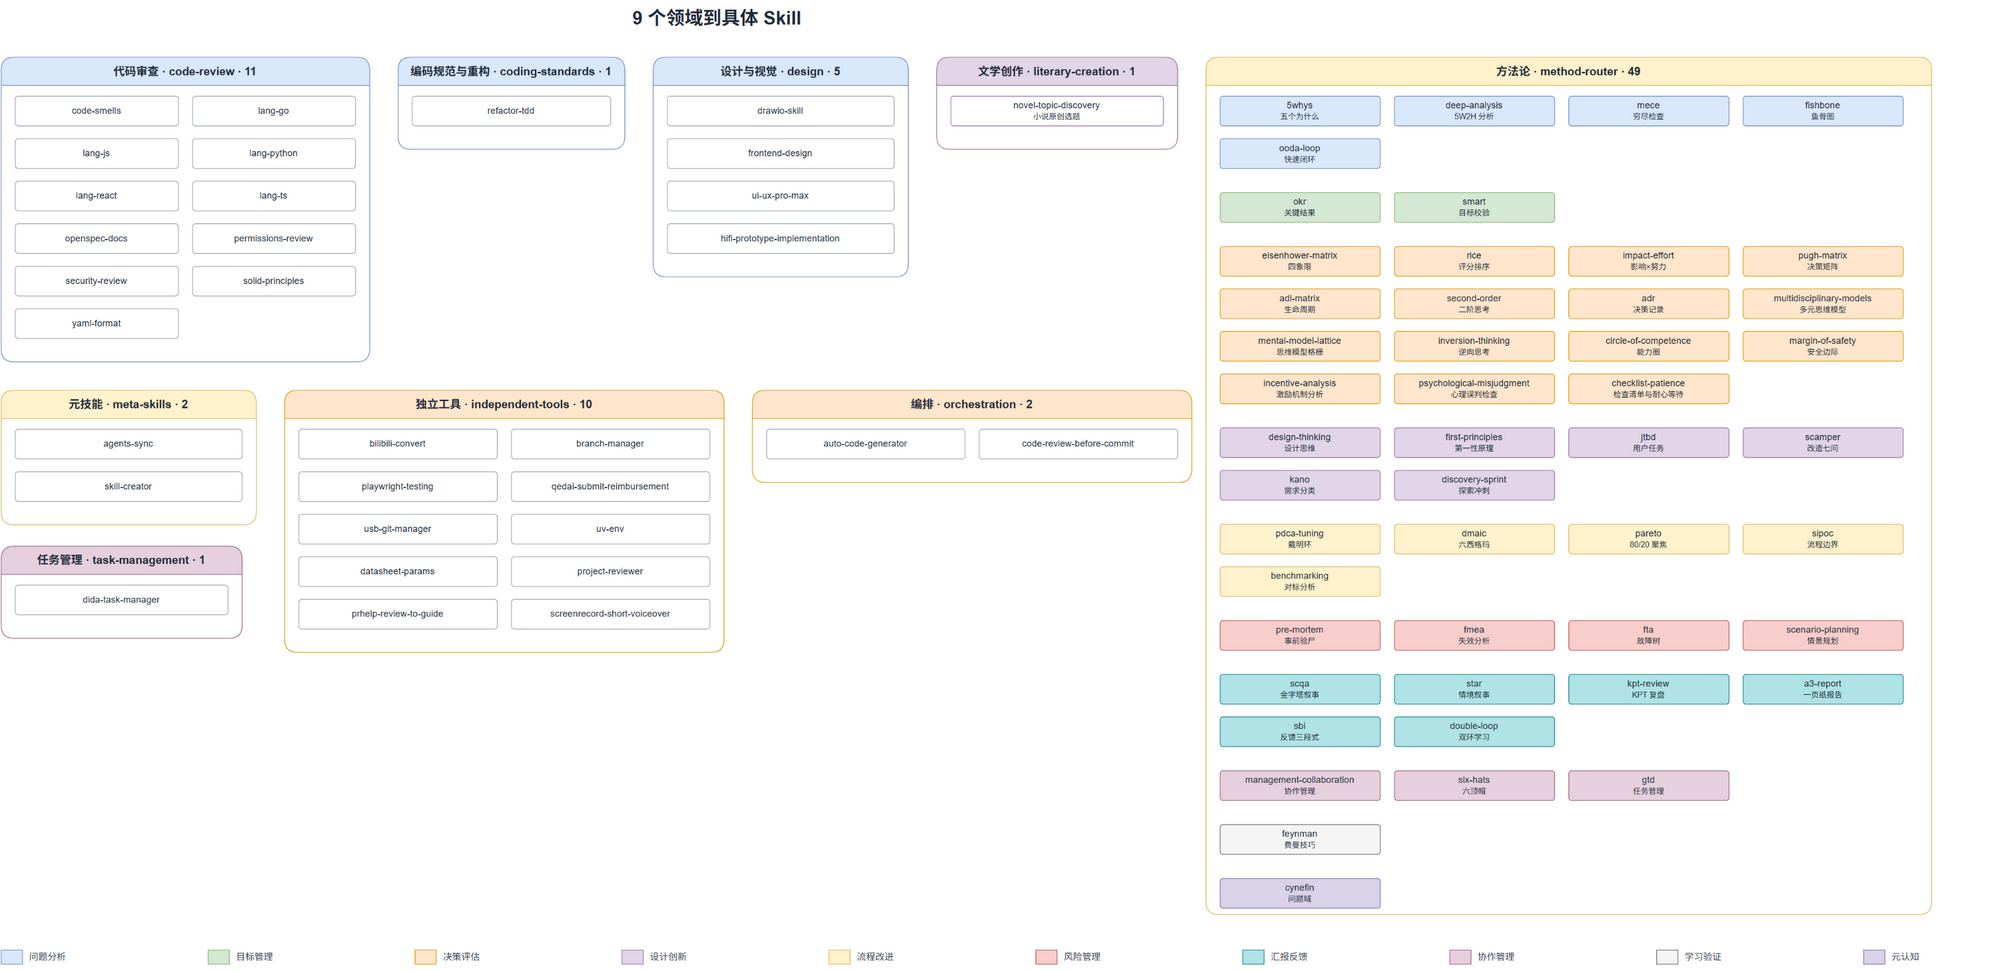
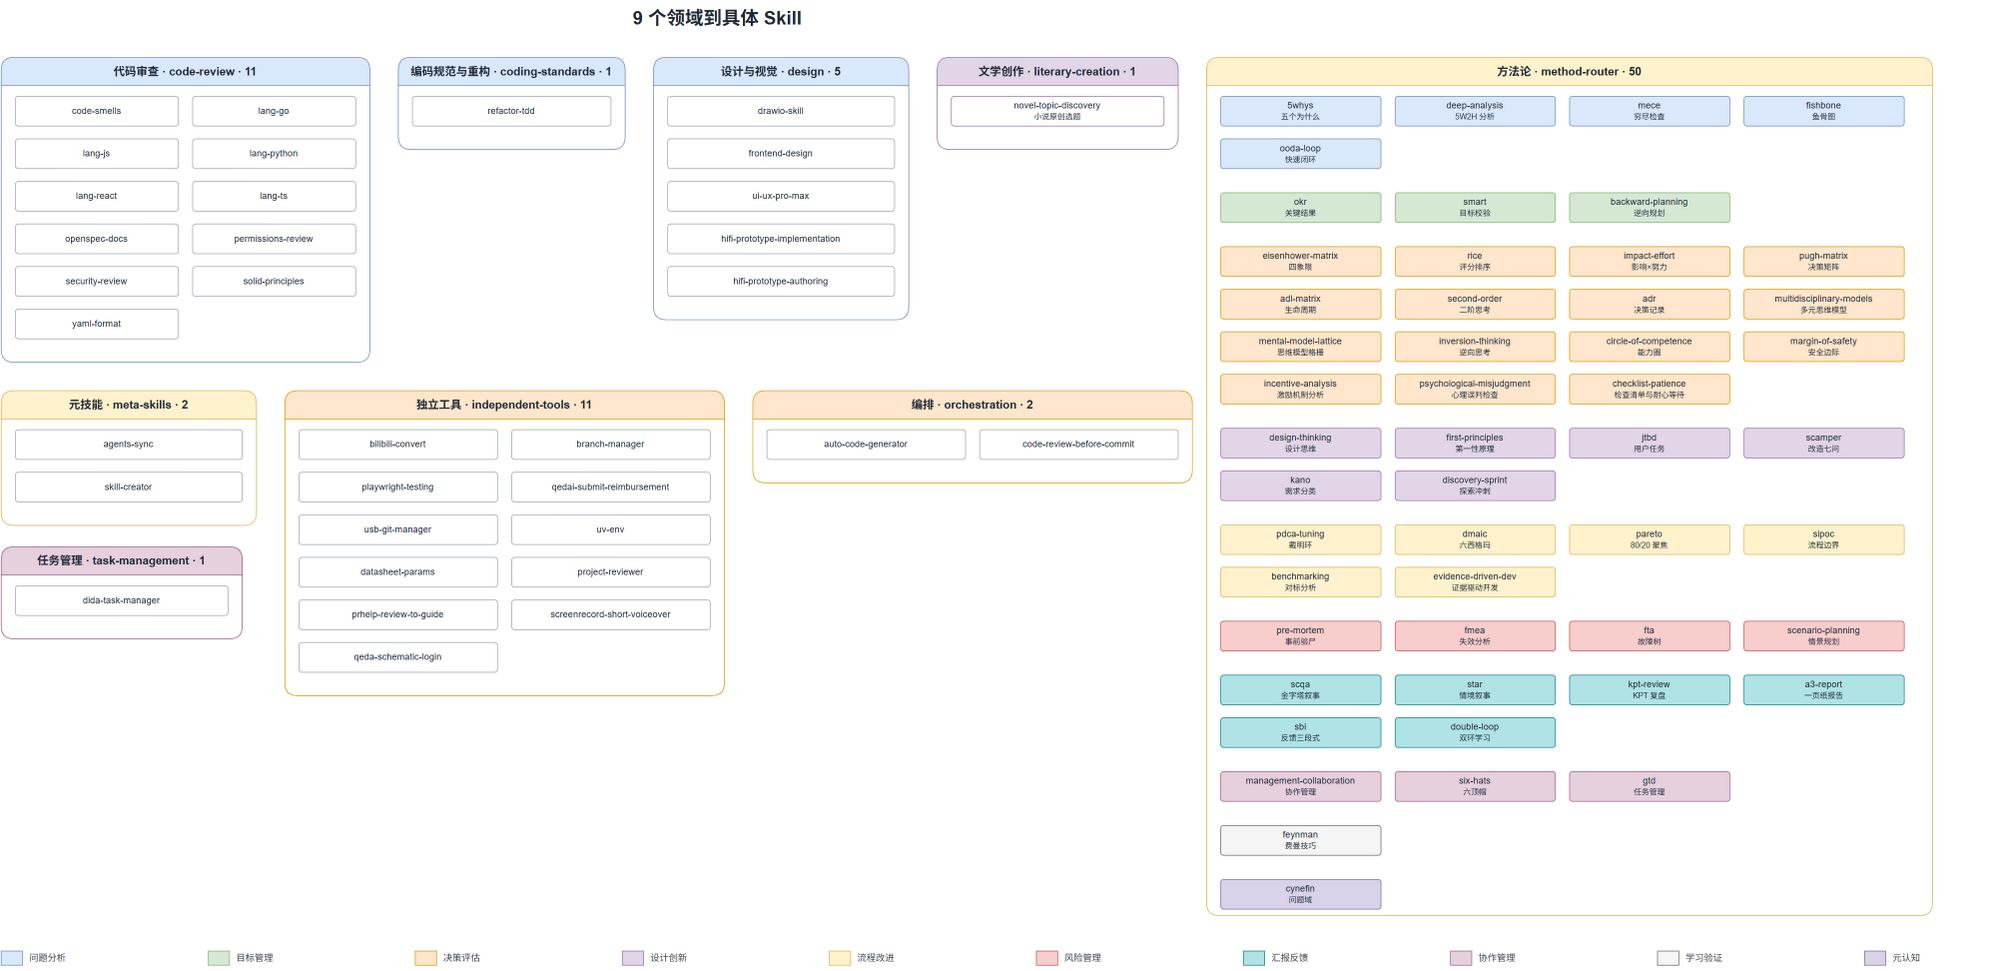
feat(method-router): 新增逆向规划 backward-planning
- 新建叶子：目标与现状差距过大时从终态倒推里程碑到现状
- method-mapping 增加 goal_backward 路由与触发词，skill_registry 登记
- 域入口同步映射表、关键词矩阵与框架数 49→50
- 架构图补 backward-planning 与 evidence-driven-dev 节点
- 测试断言同步路由总数 53→54

注册表 backward-planning 条目与 README 计数已在上一提交一并入库，本提交补齐路由、叶子与图示。

diff --git a/tests/test_method_router_contract.py b/tests/test_method_router_contract.py
@@ -411,7 +411,7 @@ class MethodRouterContractTest(unittest.TestCase):
             leaf_sub_types,
             {route["condition"]["sub_type"] for route in leaf_routes},
         )
-        self.assertEqual(53, len(self.routes))
+        self.assertEqual(54, len(self.routes))
 
         with self.assertRaises(LookupError):
             _resolve(
@@ -447,12 +447,12 @@ class MethodRouterContractTest(unittest.TestCase):
 
     def test_readme_and_method_router_counts_include_eight_leaf_skills(self) -> None:
         readme = README_PATH.read_text(encoding="utf-8")
-        self.assertIn("83 个注册 Skill", readme)
-        self.assertIn("49 个方法论 Skill", readme)
+        self.assertIn("84 个注册 Skill", readme)
+        self.assertIn("50 个方法论 Skill", readme)
         self.assertIn("10 个功能块", readme)
         self.assertIn("8 个独立叶子 Skill", readme)
         self.assertIn("不是第九个综合 Skill", readme)
-        self.assertIn("49 个框架", self.method)
+        self.assertIn("50 个框架", self.method)
         self.assertIn("10 个功能块", self.method)
         self.assertIn("munger_full", self.method)
         self.assertNotIn(OLD_COMPOSITE_NAME, self.method)
@@ -488,8 +488,8 @@ class MethodRouterContractTest(unittest.TestCase):
             "Discovery Sprint",
             "highest_priority_then_specificity",
             "route_context",
-            "83 个",
-            "49 个",
+            "84 个",
+            "50 个",
         ):
             with self.subTest(document="README", text=text):
                 self.assertIn(text, readme)
@@ -499,8 +499,8 @@ class MethodRouterContractTest(unittest.TestCase):
             "discovery-sprint",
             "highest_priority_then_specificity",
             "route_context",
-            "83 个",
-            "49 个",
+            "84 个",
+            "50 个",
             *LEAF_NAMES,
         ):
             with self.subTest(document="Draw.io", text=text):

diff --git a/method-router/SKILL.md b/method-router/SKILL.md
@@ -141,7 +141,7 @@ Phase 1: 意图分类 ──▶ route_context（type / urgency / domain / has_da
 | **improve** | 优化、提升、改进、加速、减少、自动化、太慢、全面测试、实机验收、实机验证、上机验收、先测后修、证据驱动 | "这个接口太慢了" |
 | **risk** | 风险、安全、漏洞、事故、万一、上线、有问题吗 | "这个改动能上线吗" |
 | **report** | 总结、汇报、周报、复盘、文档、记录、写报告 | "帮我写个复盘报告" |
-| **goal** | 目标、OKR、KPI、flag、减肥、学习计划、愿景、里程碑、定目标、达成 | "帮我定个季度减肥目标" |
+| **goal** | 目标、OKR、KPI、flag、减肥、学习计划、愿景、里程碑、定目标、达成、差距过大、从结果倒推 | "帮我定个季度减肥目标"；"目标和现状差距太大，从结果倒推" |
 | **learning** | 学习、理解、弄懂、掌握、复习、讲给别人听、面试、简单解释 | "这个机制我是不是真懂了" |
 | **manage** | 管理、协作、分工、委派、责任、协调、资源、排期、子 Agent、卡槽、DAG、有向无环图、依赖图、拓扑、关键路径、时间、截止、超时、升级 | "按依赖图安排 Sol 和 Luna 的并发波次" |
 
@@ -235,6 +235,7 @@ route_context:
 | **report** | 默认 | SCQA |
 | **goal** | `sub_type=goal_setup` | OKR → SMART |
 | **goal** | `sub_type=goal_quality` | SMART |
+| **goal** | `sub_type=goal_backward` | Backward Planning |
 | **learning** | `sub_type=verify_understanding` | Feynman |
 
 ### 组合规则
@@ -416,12 +417,12 @@ route_log:
 
 ## 方法论块总览（按功能块分组，英文（中文名））
 
-> 49 个框架按 10 个功能块组织；映射权威仍以 `references/method-mapping.yaml` 为准
+> 50 个框架按 10 个功能块组织；映射权威仍以 `references/method-mapping.yaml` 为准
 
 | 块 | 框架 |
 |---|---|
 | **问题分析** diagnose | 5whys（五个为什么）· deep-analysis（5W2H 深度分析）· mece（MECE 穷尽检查）· fishbone（鱼骨图）· ooda（OODA 快速闭环） |
-| **目标管理** goal | okr（目标与关键结果）· smart（SMART 目标校验） |
+| **目标管理** goal | okr（目标与关键结果）· smart（SMART 目标校验）· backward-planning（逆向规划） |
 | **决策评估** decide | eisenhower（艾森豪威尔矩阵）· rice（RICE 评分）· impact-effort（影响×努力矩阵）· pugh（普氏决策矩阵）· adl（ADL 生命周期矩阵）· second-order（二阶思考）· adr（架构决策记录）· multidisciplinary-models（多元思维模型）· mental-model-lattice（思维模型格栅）· inversion-thinking（逆向思考）· circle-of-competence（能力圈）· margin-of-safety（安全边际）· incentive-analysis（激励机制分析）· psychological-misjudgment（心理误判检查）· checklist-patience（检查清单与耐心等待） |
 | **设计创新** design | discovery-sprint（探索冲刺）· design-thinking（设计思维）· first-principles（第一性原理）· jtbd（用户任务洞察）· scamper（SCAMPER 改造法）· kano（KANO 需求分类） |
 | **流程改进** improve | pdca（戴明环）· dmaic（六西格玛）· pareto（帕累托 80/20）· sipoc（SIPOC 流程边界）· benchmarking（对标分析） |

diff --git a/method-router/backward-planning/SKILL.md b/method-router/backward-planning/SKILL.md
@@ -1,0 +1,30 @@
+---
+name: backward-planning
+description: >
+  逆向规划：目标与现状差距过大时，从终态往前推里程碑到现状，生成路径步骤。
+  当用户提到差距过大、从结果倒推、从终态反推、逆向规划或 backcasting 时使用。
+---
+
+# 逆向规划
+
+## 输入
+
+提供目标状态描述、现状证据和约束（时间/资源/依赖）。目标还写不出可验收判据时先转交 SMART 校验。
+
+## 执行
+
+1. 把目标改写为可验收的终态判据（交付物 + 证据）；写不出判据就先退回 SMART。
+2. 从终态倒推：达成终态的前一步是什么？逐个向前追问，直到落到现状。
+3. 每个里程碑标注可观测证据、前置依赖和最短验证方式。
+4. 与正向计划对照，列出倒推暴露的遗漏步骤与顺序冲突。
+
+## 输出
+
+输出里程碑链：终态 ← M3 ← M2 ← M1 ← 现状，每步带验收判据、依赖与证据方式；
+并单独列出倒推发现的遗漏清单与顺序冲突。
+
+## 边界
+
+本 Skill 只做终态倒推与路径生成：目标体系未建立时先转交 OKR/SMART；需要排序失败风险时转交
+pre-mortem；完全初始、连目标都没有的任务转交 discovery-sprint。它不排期、不分配资源；
+里程碑冲突只标记并交回主 Agent 决策。
